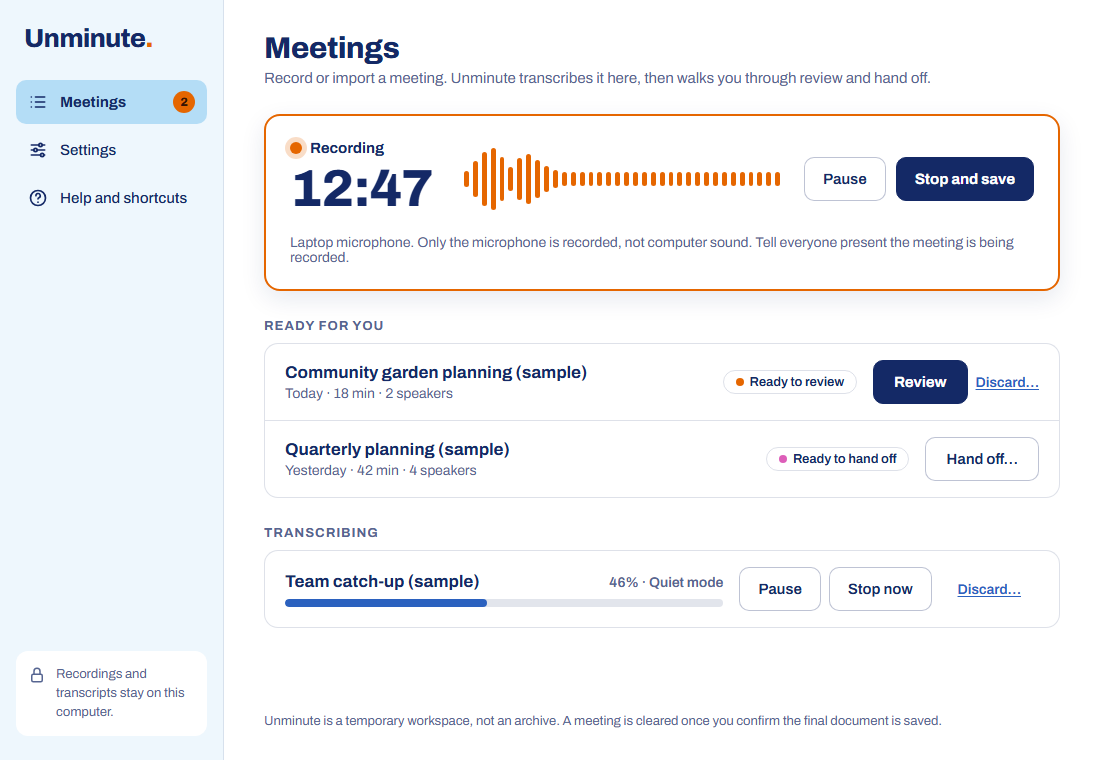
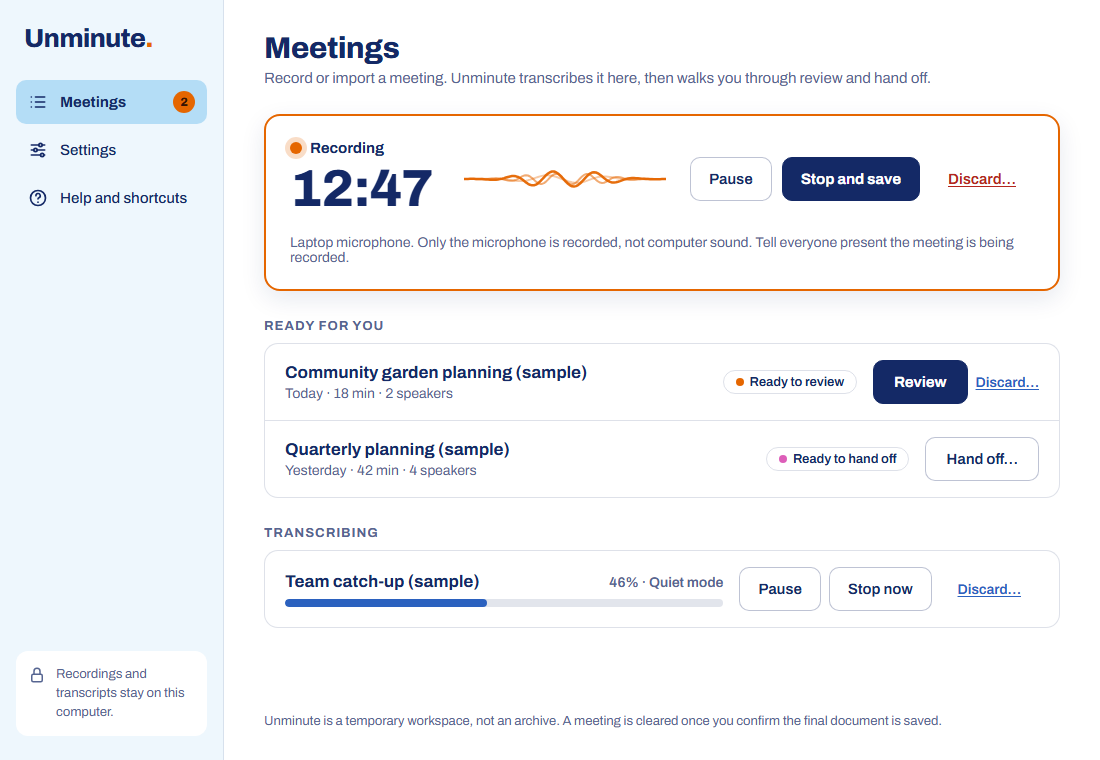
README and screenshots for v0.5.0-preview.1
README: what changed since v0.4.3 (recording consent and indicator, keeping
awake and the lid setting, sandboxed decoding and the equal-weight downmix,
Skip speakers, handoff templates and framing, policy, diagnostics, damage
check, update-gate and uninstall lid restore, privacy hardening), the
breaking upgrade from 0.4.3, previews and verified releases, known
limitations now tracked in #189, #216 and #176, and cryptography in the
licence table (OpenSSL's licence to confirm). The graphics card component
is a 2 GB download (README and guide said 1.92 GB, from before B4).

Screenshots: regenerated with tools/design_check.py from the fictional
sample meeting (headless Edge, 1100x760; settings cropped from 1100x1320),
plus a dark-mode Meetings page. The settings fixture now names the
recording display, as the app does, so one choice shows selected.

Claude-Session: https://claude.ai/code/session_01K3Ljqt2df4o7cG7GJPNxPT

Changed region(s): [[0.4018, 0.1816, 0.9582, 0.2724]]

diff --git a/tools/design_check/fixtures.js b/tools/design_check/fixtures.js
@@ -344,7 +344,7 @@
   ];
   const SETTINGS = {
     mode: "quiet", battery_override: false, speakers: true, gpu_speakers: false, microphone: true,
-    model: "parakeet-tdt-0.6b-v2", onboarded: true,
+    model: "parakeet-tdt-0.6b-v2", onboarded: true, recording_display: "flow",
     choices: [{ name: "parakeet-tdt-0.6b-v2", label: "Parakeet v2", recommended: true },
               { name: "parakeet-tdt-0.6b-v3", label: "Parakeet v3", recommended: false },
               { name: "large-v3-turbo", label: "Whisper large-v3 turbo", recommended: false }],

diff --git a/README.md b/README.md
@@ -8,7 +8,7 @@ Unminute turns meeting recordings into reviewed transcripts on your own Windows 
 
 It was built for a professional-services office where recordings are confidential, laptops are locked down (no administrator rights, Intune managed) and nobody wants to learn a command line. It installs per user, without administrator rights.
 
-The screenshots show a fictional sample meeting, spoken by the Windows built-in text-to-speech voices. No real people or recordings appear in them.
+The screenshots show a fictional sample meeting: they are the app's own screens, filled with built-in sample data by `tools/design_check.py`. No real people, meetings or recordings appear in them.
 
 ## What it does
 
@@ -18,6 +18,7 @@ The screenshots show a fictional sample meeting, spoken by the Windows built-in 
 - **Hands off safely.** Copies a prompt and the reviewed transcript for your AI assistant, or saves Markdown. For the hand off only, you can replace names with Speaker 1, Speaker 2, leave out passages or redact words.
 - **Cleans up in two confirmed steps.** The audio goes once you confirm the transcript is reviewed. The transcript goes once you confirm the final document is saved elsewhere. Holds stop cleanup for as long as you need.
 - **Fits around your work.** Recordings come from Import, drag and drop, watched folders or the microphone. Quiet mode leaves most of the computer free. Pause and resume are safe, and nothing already transcribed is lost after a crash.
+- **Asks before it records.** Each recording starts only after you confirm that everyone present has been told (unless your organisation turns that question off), and the window title and taskbar button show while it is recording.
 - **Stays offline.** Models are downloaded once, when you choose, and checked against published checksums. No usage statistics are ever sent.
 
 ![A meeting in review: the steps across the top, the transcript on the left and the speakers on the right](docs/screenshots/workspace-meeting.png)
@@ -34,7 +35,7 @@ You do not need Python, Git, FFmpeg or any GPU tools. The package brings its own
 
 ## Install
 
-1. Download `Unminute-<version>.zip` and `Unminute-<version>.zip.sha256` from the [latest release](https://github.com/thatskiff33/unminute/releases/latest).
+1. Download `Unminute-<version>.zip` and `Unminute-<version>.zip.sha256` from the [Releases page](https://github.com/thatskiff33/unminute/releases). The [latest release](https://github.com/thatskiff33/unminute/releases/latest) is the current full release. Previews, such as 0.5.0-preview.1, are marked Pre-release: they are for testing and never become the latest release.
 2. Extract the zip.
 3. Double-click `install.cmd`.
 
@@ -47,7 +48,22 @@ Before extracting, you can check the zip against its `.sha256` file. In PowerShe
 Get-Content Unminute-<version>.zip.sha256
 ```
 
+That detects a damaged download, not a replaced one. From 0.5.0 (including its previews), each release is built by GitHub Actions from its tagged commit, with signed build provenance and a signed software bill of materials, and is published only after the project owner approves it. The zip itself is still not code-signed. To check that a download was built that way, IT can run `tools\intune\Get-VerifiedRelease.ps1` (add `-AllowPrerelease` for a preview); see "Verifying a release before packaging" in [docs/PACKAGING.md](docs/PACKAGING.md).
+
 Unattended and Intune deployment, exit codes, detection rules and signing are covered in [docs/PACKAGING.md](docs/PACKAGING.md).
+
+### Coming from 0.4.3 or earlier
+
+This is not an update in place, and nothing carries over. The app's folders, install folder and saved-token name changed with the rename to Unminute, so this version starts with an empty workspace and cannot see your meetings, settings, handoff templates, watched folders or remembered token in the earlier version. In order:
+
+1. **Finish with the earlier version.** Hand off or copy anything you still need, confirm the cleanup of finished meetings, and check any holds with whoever manages them.
+2. **Remove the Hugging Face token** there, because no later version can reach it: in 0.4, Settings > Manage downloads > Remove the remembered token; in 0.2 or 0.3, Setup > Remove the remembered token.
+3. **Note what you set up.** Write down your settings and watched folders (including which ones may delete originals), and copy the text of any handoff template you edited or wrote.
+4. **Uninstall the earlier version** in Settings > Apps.
+5. **Install this version.** If IT manages your updates, they pass `-Managed` again on this first install.
+6. **Set up again.** In Setup, download the models again and enter the token again. Then set up your settings, handoff templates and watched folders again. When you add a watched folder again, leave "Also import recordings already in it" unticked, so recordings you finished are not imported twice. If you used the graphics card, download "Graphics card acceleration" again in Settings > Manage downloads and turn "Use the graphics card" back on.
+
+The earlier version's workspace and models stay on the computer until you delete them. Where they are, how to remove a token left behind, what happens if you install in the other order, and the steps for Intune are under "Updates" in [docs/PACKAGING.md](docs/PACKAGING.md).
 
 ### First start: Setup
 
@@ -59,7 +75,7 @@ The first start opens Setup, five short steps. Each model is a one-off download 
 4. **Microphone (optional):** turn on recording and test the microphone.
 5. **Ready:** a summary of what is set up.
 
-You can skip the optional steps and turn them on later in Settings. **Graphics card acceleration** is offered only on computers with an NVIDIA card. It is a 1.92 GB download of the CUDA build of PyTorch, used for speaker identification only, and is in Settings > Manage downloads. That page also checks, repairs and removes downloaded models.
+You can skip the optional steps and turn them on later in Settings. **Graphics card acceleration** is offered only on computers with an NVIDIA card. It is a 2 GB download of the CUDA build of PyTorch, used for speaker identification only, and is in Settings > Manage downloads. That page also checks, repairs and removes downloaded models.
 
 ![Setup, step 2: downloading the recommended speech model](docs/screenshots/workspace-setup.png)
 
@@ -68,12 +84,17 @@ You can skip the optional steps and turn them on later in Settings. **Graphics c
 ### Bring in a recording
 
 - **Import a recording** on the Meetings page, or drop audio or video files anywhere on the window. Recordings must be on this computer: files on mapped network drives, or reached through a symbolic link, are refused (copy them across first), unless your organisation allows them. Synced folders such as OneDrive are fine.
-- **Watched folders** (Settings) pick up new recordings automatically. See [docs/INTAKE.md](docs/INTAKE.md) for synced and cloud folders.
-- **Record a meeting** appears once microphone recording is on (Setup, or Settings > Recording and speakers). Tell everyone present that the meeting is being recorded. Only the microphone is recorded, not sound playing on the computer.
+- **Watched folders** (Settings) pick up new recordings automatically. Pausing a folder stops its imports at once; what it had already found waits until you resume it. See [docs/INTAKE.md](docs/INTAKE.md) for synced and cloud folders.
+- **Each recording is opened in a separate, restricted process** that can only send back plain audio. Only the supported formats are accepted, whatever a file claims to be. Decoding stops at 12 hours of audio and always leaves 1 GB of disk space free. A file with several channels (for example one track per person) is mixed with every channel at equal weight, so no track is lost.
+- **Record a meeting** appears once microphone recording is on (Setup, or Settings > Recording and speakers). Only the microphone is recorded, not sound playing on the computer.
+  - **Before each recording**, Unminute asks you to tick that everyone present has been told the meeting is being recorded, and why. The question is drawn by the app outside its page. Your organisation can turn it off.
+  - **While recording**, the window title starts with **● Recording** and the taskbar button shows a red dot, also when the window is minimised.
+  - **The computer stays awake** while a recording is open, unless your organisation's power settings prevent it. If it sleeps anyway, for example when the lid is closed, the recording stops, keeps what was recorded and says the computer went to sleep.
+  - **To keep recording with the lid closed**, turn on **Keep recording when the lid is closed** in Settings > Recording and speakers. Unminute then sets Windows to do nothing when the lid is closed while a recording is open, and puts your own setting back when the recording ends. If the app closes unexpectedly, it puts the setting back at its next start, or when you uninstall it. When you open the lid, the recording card says how long it carried on with the lid closed. Where your organisation sets what the lid does, Unminute leaves it alone. The lid and sleep behaviour has not yet been tested on a real laptop.
 
 Transcription runs in the background, one meeting at a time. The Meetings page groups meetings by what they need next: **Needs attention**, **Ready for you**, **Transcribing** and **Cleaning up**. Transcribing meetings show progress, with **Pause** and **Stop now**.
 
-![Recording a meeting, with the level meter and timer](docs/screenshots/workspace-recording.png)
+![Recording a meeting, with the live sound curve and the timer](docs/screenshots/workspace-recording.png)
 
 ### Review and name speakers
 
@@ -83,6 +104,7 @@ Open a meeting to review it. The steps (Transcribe, Review, Hand off, Clean up) 
 - Select text, or press Enter, to correct it. Ctrl+Z undoes the last edit.
 - Search with Ctrl+F. In a wide window the transcript and the side panel scroll separately.
 - **Name speakers** plays short examples for each detected speaker. You can merge two labels that are the same person, or move a passage to another speaker. Names stay with this meeting only.
+- **Skip speakers** (on the meeting's row) or **Skip speaker identification** (in its speaker panel) is for a recording of one or two people: the meeting goes straight to review and hand off without speaker labels. While the audio is kept, **Identify again…** still works later.
 - The side panel's tabs show **Speakers**, **Versions** (Transcribe again with another model keeps your earlier version and its edits) and **Holds**.
 - **Help and shortcuts** in the sidebar lists every keyboard shortcut. Press ? (outside a text field) to open it.
 
@@ -94,6 +116,9 @@ Each meeting shows its steps:
 
 1. **Transcript reviewed…** saves the reviewed text and removes the app's copy of the audio. If you allowed it for the watched folder a recording came from, the original there is removed too (unless your organisation has turned that off, which keeps originals). Playback and editing end here.
 2. **Hand off…** opens a page that shows exactly what will be copied. Choose a template, then remove details for this hand off only: replace names with Speaker 1, Speaker 2, redact words, or leave out passages, and select **Apply**. Then **Copy prompt and transcript**, **Copy prompt only** or **Save Markdown…**.
+   - **Templates:** Minutes and actions, Short summary, Action list, Board or directors' minutes, Client meeting file note, Follow-up email, and Team or WIP notes. You can edit them or add your own. The built-in ones ask the assistant to write as a minute-taker would, with no timestamps, using what its connected tools can read about the meeting, and to list the points you should check.
+   - **Every hand off**, including your own templates, asks the assistant to use its tools only to read, to change nothing unless you ask, and to treat the transcript and what its tools return as information, not instructions. These are requests to the assistant, not guarantees. With names replaced, it also asks the assistant not to work out who the speakers are.
+   - **A saved file** is named by the date and time the meeting was imported (`Meeting transcript YYYY-MM-DD HH-MM.md`), not by its title unless your organisation allows that, and marks the transcript as data in the same way as the copied text.
 3. **Create the final document** in your assistant, review it yourself, and file it where your organisation keeps such documents.
 4. **Final document saved…** removes the meeting's transcript, edits and speaker names. A minimal receipt (a random number, times and the result) is kept for 30 days.
 
@@ -110,17 +135,26 @@ The full walkthrough is in the [user guide](docs/WORKSPACE_GUIDE.md).
 
 - **Processing:** Quiet (the default) leaves most of the computer free. Faster uses more of it. On battery, automatic work waits unless you allow it.
 - **Speech model:** which model new meetings use, and **Manage downloads** for models and the graphics card component.
-- **Recording and speakers:** microphone recording, naming speakers after transcription, and the graphics card for it (Faster mode only).
+- **Recording and speakers:** microphone recording, naming speakers after transcription, the curve shown while recording (Flowing wave, Spectrum or Sound wave), the graphics card for speaker identification (Faster mode only) and **Keep recording when the lid is closed**.
 - **Watched folders, Updates, Cleanup receipts.**
+
+On a managed computer, IT can set some of these by policy. Settings then says that some settings are managed by your organisation, and those controls cannot be changed.
 
 ![Settings](docs/screenshots/workspace-settings.png)
 
+The window follows Windows' light or dark mode.
+
+![The Meetings page in dark mode](docs/screenshots/workspace-meetings-dark.png)
+
 ## Privacy and network behaviour
 
-- **Transcription and speaker identification never use the network.** While processing, the app refuses its own Python network connections and DNS lookups to anything outside the computer. This guard is not a firewall: native code opening its own sockets would not be caught. For managed devices, an outbound firewall rule is the stronger control.
+- **Transcription and speaker identification never use the network.** While processing, the app refuses its own Python network connections, DNS lookups and UDP traffic to anything outside the computer, including connections made through Windows' asyncio route. `--self-test` checks all three. This guard is not a firewall: native code opening its own sockets would not be caught. For managed devices, an outbound firewall rule is the stronger control.
+- **Recordings are decoded in a restricted process.** It runs at Windows' Low integrity level inside a Windows job, cannot write your files or start programs directly, and is limited to 2 GB of memory. It can still read files you can read, so a decoder flaw would mainly be a privacy risk.
+- **The page inside the window is held in.** It cannot show its own message boxes, ask for the microphone, camera or screen, or call anything in the app except a fixed list of checked actions. Recording starts only through the app's own confirmation. Python's remote debugging, which would let another program run code inside the app's Python processes, is switched off.
 - **No usage statistics are sent.** Before its libraries load, the app forces their telemetry switches off: Hugging Face, pyannote's usage metrics and OpenTelemetry. A setting in your environment cannot turn them back on. It also switches off ONNX Runtime's Windows telemetry events in the processes that use it.
 - **Downloads happen only in Setup or Manage downloads, when you choose.** Models come from Hugging Face (huggingface.co and its download hosts under huggingface.co and hf.co) and the optional graphics card component from download-r2.pytorch.org. The download process can reach only those hosts and any proxy configured for you: every request and every redirect is checked, also through a proxy. Certificates are checked against the Windows certificate store, so downloads work behind a firm's TLS-inspecting proxy. A fixed proxy (set in Windows or with HTTPS_PROXY) is used; a proxy given only by an automatic configuration script (PAC or WPAD) is not, so IT may need to set a fixed one or pre-stage the models. Each file is checked against a published checksum.
-- **The Hugging Face token** is used only for the speaker model download. It is passed to the download process privately, never on its command line or in its environment.
+- **The Hugging Face token** is used only for the speaker model download. It is passed to the download process privately, never on its command line or in its environment. A token set in your Windows environment is not used or passed on: paste it in Setup instead.
+- **A small local diagnostics log, with no content.** The app keeps content-free logs in the workspace's `logs` folder (about 1.5 MB for each of its processes): error types, where in the code they happened, timings and version numbers, never meeting text, titles, names or folders. Nothing is sent anywhere. An unexpected error shows a code, for example "Something went wrong (code U-1A2B3C)".
 - **Outside the app's control:** recordings in synced folders such as OneDrive are already in that service, and anything you paste or upload to an AI assistant is handled by its provider under your organisation's account and policies.
 
 The threat model, the controls in place and the remaining risks are in [docs/SECURITY_MODEL.md](docs/SECURITY_MODEL.md). To report a vulnerability, see [SECURITY.md](SECURITY.md).
@@ -132,16 +166,18 @@ The threat model, the controls in place and the remaining risks are in [docs/SEC
 | Program | `%LOCALAPPDATA%\Programs\Unminute\versions\<version>` |
 | Workspace (meetings, edits, holds, settings) | `%LOCALAPPDATA%\Unminute\workspace` |
 | Models, and the optional graphics card component | `%LOCALAPPDATA%\Unminute\models` |
+| Diagnostics logs (no meeting content) | `%LOCALAPPDATA%\Unminute\workspace\logs` |
 | Hugging Face token (if remembered) | Windows Credential Manager |
 | Start menu shortcut | Unminute |
+| Version 0.4.3 or earlier, if it was installed | Its own folders, kept until you delete them (see "Updates" in [docs/PACKAGING.md](docs/PACKAGING.md)) |
 
 `%LOCALAPPDATA%` is per user, needs no administrator rights and is not synced by OneDrive. All of Unminute's data is under `%LOCALAPPDATA%\Unminute`: uninstalling keeps it, and the install folder must not overlap it.
 
 ## Updates, rollback and uninstall
 
-- **Update:** run the new package's `install.cmd` with the app closed. An update that keeps the storage format keeps everything. One that changes it waits until the workspace is empty (no meetings in the workspace, active holds, unfinished cleanup or unimported microphone recordings), and says what it is waiting for. No update expires a hold, deletes your work or makes a backup copy of it. From 0.4.3 or earlier this is not an update in place: this version starts with an empty workspace, so finish with the earlier version and uninstall it first (the steps are under Updates in [docs/PACKAGING.md](docs/PACKAGING.md)).
-- **Rollback:** the previous version is kept. To return to it, run `install.ps1 -Rollback` from the current version's folder (`versions\<version>`). Rollback is refused if the previous version cannot open your workspace, for example after a storage-format change.
-- **Uninstall:** Settings > Apps > Unminute. The workspace and downloaded models are kept, because meeting content is only removed through the app's confirmed cleanup steps.
+- **Update:** run the new package's `install.cmd` with the app closed. An update that keeps the storage format keeps everything. One that changes it waits until the workspace is empty (no meetings in the workspace, active holds, unfinished cleanup or unimported microphone recordings), and says what it is waiting for. No update expires a hold, deletes your work or makes a backup copy of it. A workspace the update check cannot read, for example a damaged one, makes the update wait; it is never treated as a fresh install. From 0.4.3 or earlier this is not an update in place: see [Coming from 0.4.3 or earlier](#coming-from-043-or-earlier).
+- **Rollback:** the previous version is kept. To return to it, run `install.ps1 -Rollback` from the current version's folder (`versions\<version>`). Rollback is refused if the previous version cannot open your workspace, for example after a storage-format change. The first version after the rename has no earlier version in its install folder to roll back to: to go back to 0.4.3, uninstall this version and install 0.4.3 again, which opens its own workspace.
+- **Uninstall:** Settings > Apps > Unminute. The workspace and downloaded models are kept, because meeting content is only removed through the app's confirmed cleanup steps. If Unminute closed unexpectedly while it had set Windows to do nothing when the lid is closed, and did not start again, the uninstaller first puts your own lid setting back; if it cannot, it says to check the setting in Windows Settings.
 
 Details are in [docs/PACKAGING.md](docs/PACKAGING.md).
 
@@ -155,8 +191,10 @@ Details are in [docs/PACKAGING.md](docs/PACKAGING.md).
 | Nothing is processing on battery | Plug in, or allow processing on battery in Settings. |
 | The installer says the app is running | Close Unminute and run it again. |
 | An update is waiting | Settings > Updates lists what it is waiting for. |
+| "Something went wrong (code U-…)", or the app closed by itself | Open **Help and shortcuts**, select **Copy diagnostics** and paste them into your support request with the code. They hold versions, settings, counts and error locations, never meeting content, names or folders. |
+| A message says Unminute found damage in its workspace database | After an unexpected close, Unminute checks its database at the next start and holds processing, imports and cleanup if it finds damage. Follow [If Unminute finds damage](docs/WORKSPACE_GUIDE.md#if-unminute-finds-damage) in the user guide. |
 
-For IT support, `runtime\python.exe -I -B -m workspace --self-test` in the installed version folder checks that the main dependencies load, that the network block works and that the speaker model loader refuses a model file that would run code. `--status` prints counts only, never content.
+For IT support, `runtime\python.exe -I -B -m workspace --self-test` in the installed version folder checks that the main dependencies load, that the network block works and that the speaker model loader refuses a model file that would run code. `--status` prints counts only, never content. `--health` prints a one-line health report for device management and exits 1 when the app needs attention (see [docs/PACKAGING.md](docs/PACKAGING.md)).
 
 ## Measured performance
 
@@ -173,12 +211,18 @@ On eight whole public meetings (AMI, 254 minutes), Parakeet v2 had a word error 
 
 ## Known limitations
 
-- Not yet tested on a clean standard-user Windows profile, through Intune on a managed device, or on Windows 10 (#10, #11).
-- The installer scripts are not code-signed. Integrity rests on the published `.sha256` and the installer's per-file check.
-- Transcription quality has been measured on public and synthetic audio only, not on representative business recordings (#12, #25).
-- Not yet tested with a screen reader, Windows contrast themes or pilot users (#27).
-- Tested on one laptop only. The minimum and recommended hardware levels are untested (#28).
+Checks that need people, hardware or IT are tracked together in #189.
+
+- Not yet tested on a clean standard-user Windows profile, through Intune on a managed device, or on Windows 10.
+- The zip and the installer scripts are not code-signed. From 0.5.0, releases carry signed build provenance and a signed software bill of materials instead (see [Install](#install)); earlier releases rest on the published `.sha256` and the installer's per-file check.
+- Transcription quality has been measured on public and synthetic audio only, not on representative business recordings.
+- Not yet tested with a screen reader, Windows contrast themes or pilot users.
+- Tested on one laptop only. The minimum and recommended hardware levels are untested.
 - Graphics card acceleration has been tested on one NVIDIA laptop GPU with synthetic audio. AMD and Intel graphics are not supported.
+- Keeping the computer awake, and recording with the lid closed, follow Windows' documentation and have not yet been tested on a real laptop.
+- Recording with the window visible uses about 22% of one processor core; the target is 5% (#216).
+- The package does not yet include the licence texts of some bundled native libraries, or of the packages that ship none (#176).
+- Version 0.5.0 and its previews are not an update in place from 0.4.3 or earlier ([Coming from 0.4.3 or earlier](#coming-from-043-or-earlier)).
 
 What a release must meet is in [docs/RELEASE_STANDARD.md](docs/RELEASE_STANDARD.md). The evidence recorded so far is in [docs/RELEASE_CHECKLIST.md](docs/RELEASE_CHECKLIST.md).
 
@@ -195,7 +239,8 @@ Both Codex and Claude Code read the shared [agent guidelines](AGENTS.md) nativel
 | `tools/build_package.py` | Builds the versioned zip with a private CPython 3.14 runtime |
 | `tools/make_icon.py` | Draws the app icon with Pillow: `python tools/make_icon.py unminute.ico preview.png` |
 | `tools/` | Real-engine checks, UI and accessibility checks, the design comparison (`tools/design_check.py`), benchmarks |
-| `tests/` | Unit tests: `python -m unittest discover -s tests -v` |
+| `tests/` | Unit tests: run them with `python tools/run_tests.py` (see [AGENTS.md](AGENTS.md), "Checks") |
+| `.github/workflows/` | The checks on every pull request, and the Release workflow, which builds a tagged release on GitHub, attests it and publishes it after the owner approves |
 | `CHANGELOG.md` | Release notes, one section per version. The Release workflow reads it. |
 | `changelog.d/` | Unreleased changes, one fragment per pull request; `tools/changelog.py` moves them into `CHANGELOG.md` at release. |
 
@@ -231,9 +276,11 @@ The repository contains this project's own code, plus one third-party wheel (`pr
 | istupakov/silero-vad-onnx | MIT | Silero voice-activity detection. Verified 13 October 2026. |
 | onnx-asr | MIT | Verified 13 October 2026. |
 | ONNX Runtime | MIT | |
-| PyTorch CUDA 13.0 build (optional download) | BSD-3-Clause; bundled NVIDIA CUDA runtime and cuDNN under NVIDIA's licences | Downloaded by the user in Setup from download-r2.pytorch.org, for speaker identification on an NVIDIA graphics card. Not redistributed here. Verified 14 October 2026. |
+| PyTorch CUDA 13.0 build (optional download) | BSD-3-Clause; bundled NVIDIA CUDA runtime and cuDNN under NVIDIA's licences | Downloaded by the user in Settings > Manage downloads from download-r2.pytorch.org, for speaker identification on an NVIDIA graphics card. Not redistributed here. Verified 14 October 2026. |
 | sounddevice | MIT | Optional microphone recording in Unminute. Verified 14 October 2026. |
 | PortAudio | MIT | Bundled with sounddevice. The workspace package keeps only the 64-bit Windows library without ASIO. Verified 14 October 2026. |
+| cryptography | Apache-2.0 OR BSD-3-Clause | Version 50.0.2, from its package metadata, verified 19 October 2026. Ready for encryption at rest; nothing uses it yet. |
+| OpenSSL | To confirm | Version 4.0.3, built into cryptography's Windows wheel. The wheel's own bill of materials names it but gives no licence. |
 
 Attribution for the speaker identification model: the pyannote speaker-diarization-community-1 pipeline by pyannoteAI, released under CC BY 4.0. If you publish transcripts or derived work that relied on speaker identification, keep that attribution.
 

diff --git a/docs/WORKSPACE_GUIDE.md b/docs/WORKSPACE_GUIDE.md
@@ -189,7 +189,7 @@ These configurations have been tested:
 - **Speech models:** Parakeet v2 (recommended) was tested in the workspace. Parakeet v3 and Whisper large-v3 turbo were tested only in the retired source app's engine; in that comparison Parakeet v3 dropped speech on some clips.
 - **Speaker identification:** pyannote community-1.
 
-**Graphics card (optional, speaker identification only).** On a computer with an NVIDIA card, Settings > Manage downloads offers "Graphics card acceleration". This is a one-time 1.92 GB download of the CUDA build of PyTorch from the PyTorch download site, checked against published checksums. Once it is downloaded, turn on Settings > Recording and speakers > "Use the graphics card".
+**Graphics card (optional, speaker identification only).** On a computer with an NVIDIA card, Settings > Manage downloads offers "Graphics card acceleration". This is a one-time 2 GB download of the CUDA build of PyTorch from the PyTorch download site, checked against published checksums. Once it is downloaded, turn on Settings > Recording and speakers > "Use the graphics card".
 
 - **When it is used:** only in Faster mode. Transcription always runs on the processor.
 - **What it needs:** an NVIDIA driver from version 580. Nothing else is installed on the computer and drivers are never changed.
